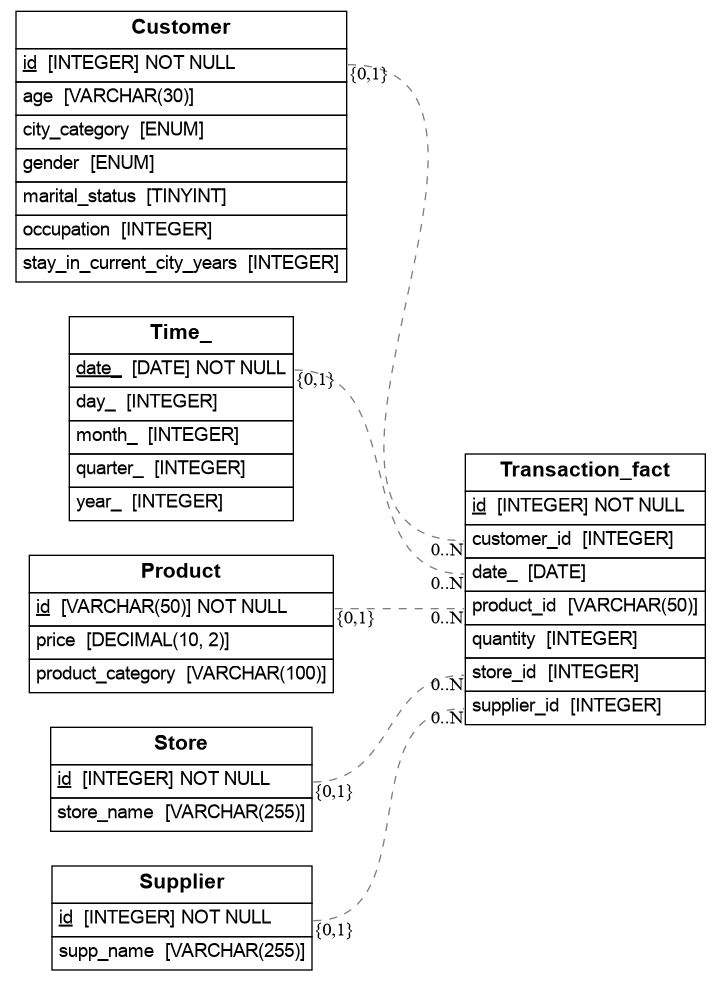
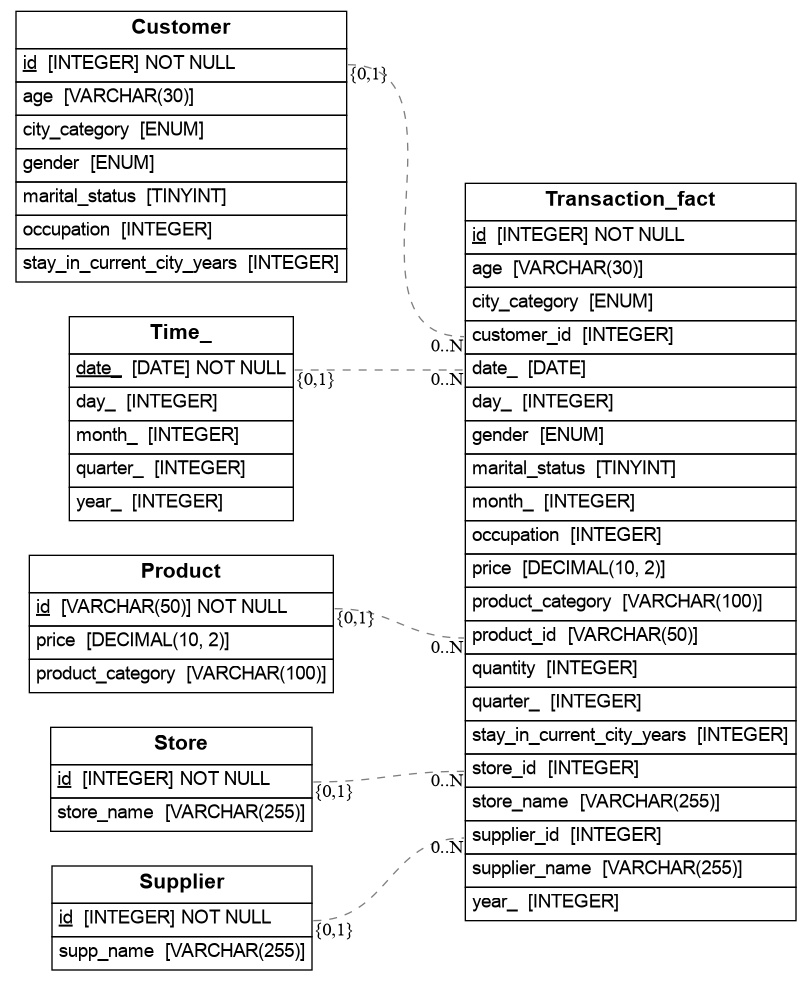
trying out extract

diff --git a/etl/extract.py b/etl/extract.py
@@ -1,0 +1,15 @@
+import time
+import pandas as pd
+
+last_read_line = 0
+stream_buffer = []
+x = 20  # print output every x new rows
+while True:
+    df = pd.read_csv("transactional_data.csv")
+    new_rows = df.iloc[last_read_line:]  # only take rows added since last read
+    for _, row in new_rows.iterrows():
+        stream_buffer.append(row)
+    last_read_line = len(df)
+    # print output every x new rows
+    
+    time.sleep(1)  # wait 1 second before checking again

diff --git a/app.py b/app.py
@@ -5,12 +5,13 @@ import mysql.connector
 from sqlalchemy import MetaData
 from eralchemy import render_er
 from etl.master_data_loader import load_master_data
-
+import threading
 
 SCHEMA_FILE_PATH = "database/star_schema.sql"
 
 connection = None
-
+if "threads_started" not in st.session_state:
+    st.session_state.threads_started = False
 if "db_connected" not in st.session_state:
     st.session_state.db_connected = False
 if "db_url" not in st.session_state:
@@ -68,7 +69,7 @@ if not st.session_state.get("db_connected"):
     metadata = MetaData()
     metadata.reflect(bind=engine)
 
-    render_er(metadata, './database/er_diagram_from_code.png')
+    # render_er(metadata, './database/er_diagram_from_code.png')
 
     # st.image(Image.open('./database/er_diagram_from_code.png'), caption="Database ER Diagram", use_container_width=True)
 
@@ -87,4 +88,8 @@ if st.session_state.db_connected:
         load_master_data(engine=st.session_state.engine)
         st.session_state.load_master_data = False
         if st.session_state.get("start_etl"):
-            pass # Placeholder for ETL process initialization
+            if not st.session_state.get("threads_started"):
+                # etl_thread = threading.Thread(target=lambda: __import__("etl").real_time_etl.run_real_time_etl(engine=st.session_state.engine), daemon=True)
+                # etl_thread.start()
+                st.session_state.threads_started = True
+            st.success("Real-time ETL process started in the background.")